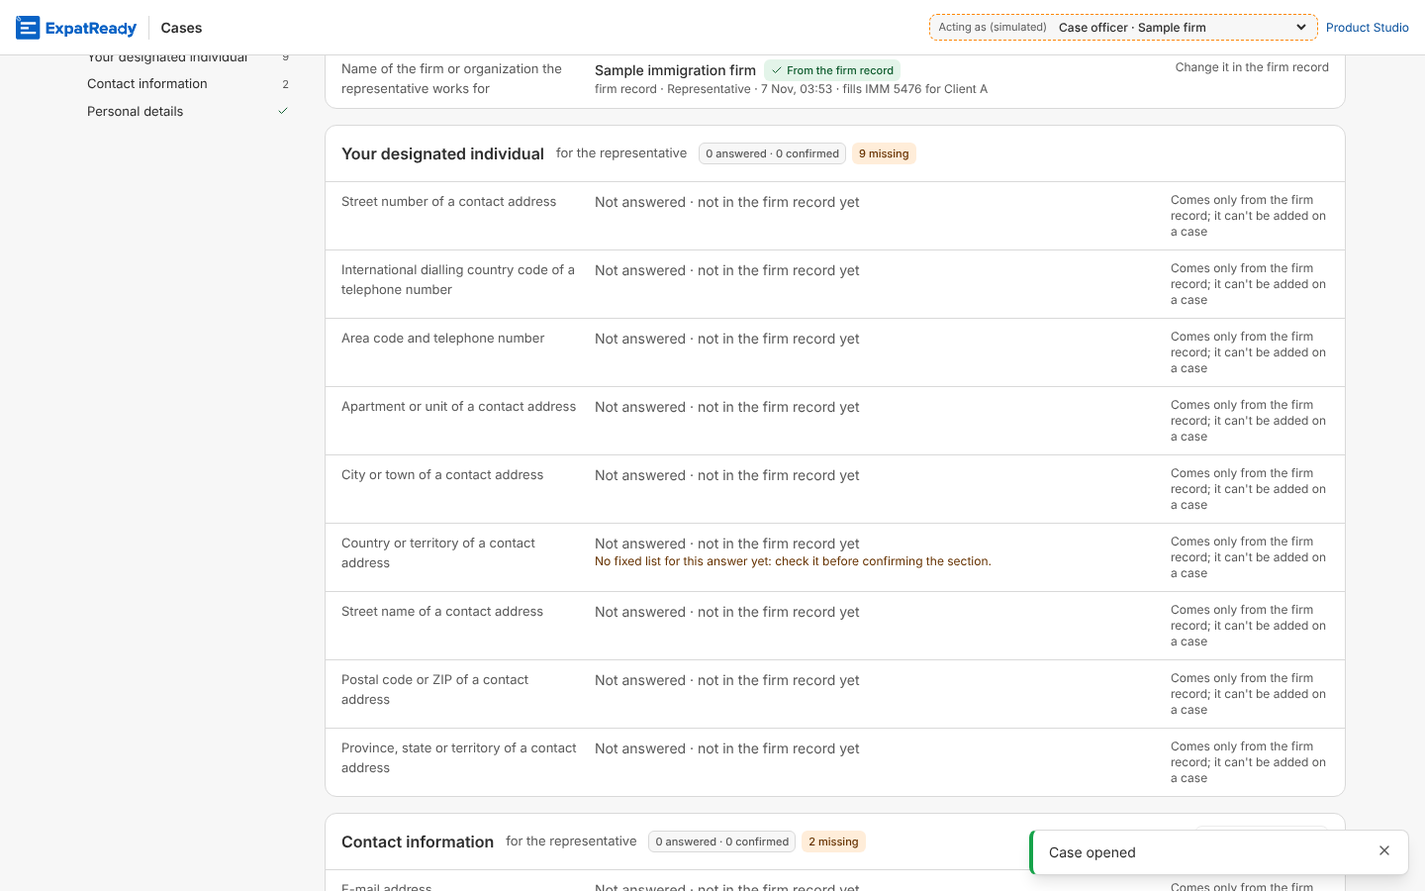
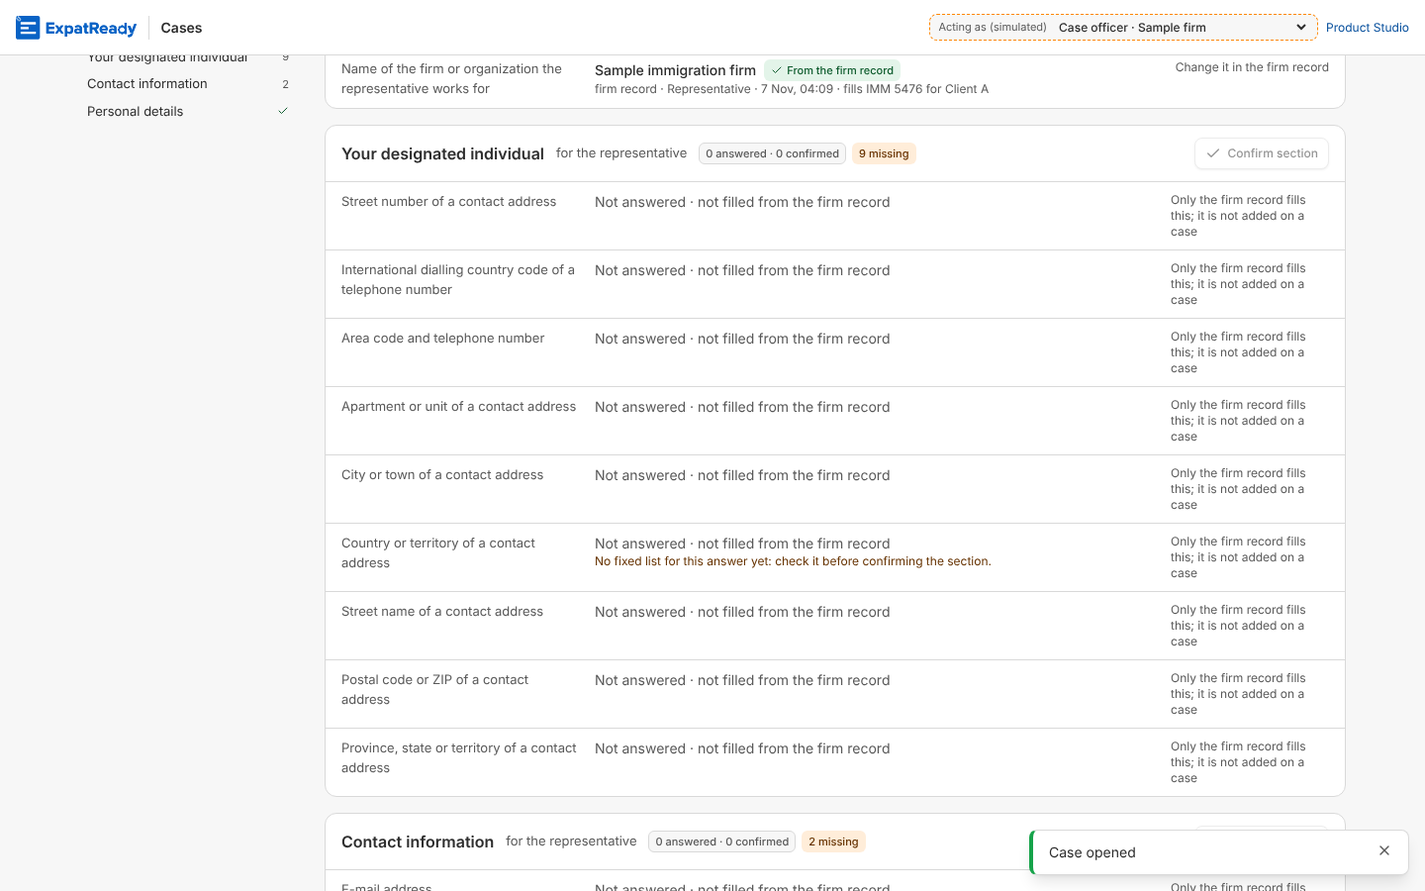
runtime: QA-293 — review round 1 (Request changes) answered: true words for every line, the row routes refuse too
* M1: "not in the firm record yet" was false for 10 of the 17 lines (the firm record holds the office address, under
  keys this release does not read, held back by the ruling on #1072) and promised a value Section B never gets for a
  paid RCIC. The tab now says "Not answered · not filled from the firm record" and "Only the firm record fills this; it
  is not added on a case"; the route's words drop the promise ("... so they are not saved on a case.").
* m3: adding a row or "none apply" for the representative (groupFor) is refused in the same words (422), not 404.
* m4: the no-write check counts every answer, row and group answer in the workspace; new cases: a detail the firm record
  fills (membership ID), a client's save, the row routes.
* Nit: the constant no longer splits offeredRoles from its comment.
* review.md: the Opus reviewer's round 1, with the product question (firm record only, or typed per case) and its
  recommendation (firm record only).
check_qa293_rep_answers 10/10 (8/10 on 1230da89; 5/7 of the first version's checks on main); check_qa293_rep_tab_browser
8/8 (7/8 on 1230da89; 5/8 on main, 17 Add buttons); typecheck no new errors.

Claude-Session: https://claude.ai/code/session_015r4b498e1jCsPDDDvdXgcE

diff --git a/ai-workers/problem-1-pathway-setup-and-form-filling/prototype/studio/tests/runtime/check_qa293_rep_answers.ts b/ai-workers/problem-1-pathway-setup-and-form-filling/prototype/studio/tests/runtime/check_qa293_rep_answers.ts
@@ -6,7 +6,7 @@
 // saves. Each rule with a passing and a failing case, on the configured checkpoint. Sample data, US$0, no model call.
 //   zsh studio/tools/isolated.sh rt293 4441 start, then Demo › Reset and Demo › Load the configured checkpoint as the author
 //   tsx studio/tests/runtime/check_qa293_rep_answers.ts 4441 xr_studio_rt293
-import { call, firms, needVisitorVisa, ok, openCase, sql, yearsAgo, main } from "../../acceptance/lib/m3.ts";
+import { call, CLIENT, firms, needVisitorVisa, ok, openCase, sql, yearsAgo, main } from "../../acceptance/lib/m3.ts";
 
 await main("QA-293", "The representative's tab — details from the firm record only", async () => {
   const f = await firms(), officer = f.officer!;
@@ -17,14 +17,25 @@ await main("QA-293", "The representative's tab — details from the firm record 
   ok("QA-293 setup: the representative's tab holds details the firm record does not give (the ones that offered Add)", missing.includes("person.address_city") && missing.includes("representative.licensing_province"), missing);
   ok("QA-293 pass: the firm record still gives the representative's membership ID", repQs.some((q: { fact: string; answer: { channel: string } | null }) => q.fact === "representative.membership_id" && q.answer?.channel === "firm_record"));
 
-  const rows = () => sql(`select count(*) from client_canonical_answer a join case_participant p on p.subject_id = a.subject_id where p.case_id = '${c.id}'`);
+  // Review m4: every answer row of the workspace (not only the case's people), so a row written anywhere would show.
+  const ws = sql(`select workspace_id from runtime_case where id = '${c.id}'`);
+  const rows = () => sql(`select (select count(*) from client_canonical_answer where workspace_id = '${ws}') + (select count(*) from client_fact_record where workspace_id = '${ws}') + (select count(*) from client_group_answer where workspace_id = '${ws}')`);
   const before = rows();
   for (const fact of ["person.address_city", "representative.licensing_province"]) {
     const r = await call("PUT", `/runtime/cases/${c.id}/answers/representative/${fact}`, { value: fact === "person.address_city" ? "Hamilton" : "ON", expectedId: null }, officer);
     const words = String(r.body?.detail ?? "");
     ok(`QA-293 fail: saving the representative's ${fact} is refused in words (422, the firm record), never 404 "not on this case"`, r.status === 422 && /firm record/.test(words) && !/not on this case/i.test(words), [r.status, words]);
   }
-  ok("QA-293 fail: the refused saves write no answer on the case", rows() === before, [before, rows()]);
+  // Review M1: the words are true for a detail the firm record does fill too (the membership ID), and promise nothing.
+  const filled = await call("PUT", `/runtime/cases/${c.id}/answers/representative/representative.membership_id`, { value: "R999999", expectedId: null }, officer);
+  ok("QA-293 fail (review M1): saving a detail the firm record fills (membership ID) is refused with the same true words, never \"not in the firm record\"", filled.status === 422 && /only from the firm record/.test(String(filled.body?.detail ?? "")) && !/not in the firm record|yet/i.test(String(filled.body?.detail ?? "")), [filled.status, filled.body?.detail]);
+  const byClient = await call("PUT", `/runtime/cases/${c.id}/answers/representative/person.address_city`, { value: "Hamilton", expectedId: null }, CLIENT);
+  ok("QA-293 fail (review m4): a client's save about the representative is refused too (403 or 422), never 404", (byClient.status === 422 || byClient.status === 403) && byClient.status !== 404, [byClient.status, byClient.body?.detail]);
+  // Review m3: the repeating-group routes answer in the same words, never "not on this case".
+  const addRow = await call("POST", `/runtime/cases/${c.id}/groups/representative/rows`, { group: "employment" }, officer);
+  const none = await call("PUT", `/runtime/cases/${c.id}/groups/representative/employment/none-apply`, { noneApply: true, expectedId: null }, officer);
+  ok("QA-293 fail (review m3): adding a row or \"none apply\" for the representative is refused in the same words (422)", addRow.status === 422 && none.status === 422 && /only from the firm record/.test(String(addRow.body?.detail ?? "")), [addRow.status, addRow.body?.detail, none.status]);
+  ok("QA-293 fail: the refused saves write no answer, row or group answer anywhere in the workspace", rows() === before, [before, rows()]);
 
   // A person's own answer still saves (the refusal is for the representative only).
   const own = await call("PUT", `/runtime/cases/${c.id}/answers/${c.subjects["Sample Client A"]}/person.address_city`, { value: "Hamilton", expectedId: null }, officer);

diff --git a/ai-workers/problem-1-pathway-setup-and-form-filling/prototype/studio/web/src/runtime/questionnaire.tsx b/ai-workers/problem-1-pathway-setup-and-form-filling/prototype/studio/web/src/runtime/questionnaire.tsx
@@ -620,7 +620,7 @@ function GroupIntro({ questions }: { questions: Question[] }) {
 const FIRM_RECORD = "firm_record";
 const fromFirm = (a: Answer | null | undefined) => a?.channel === FIRM_RECORD;
 /** QA-293: the representative's tab (the view's "representative" subject): their details come only from the firm record,
- *  so a missing one says so and offers no Add (the route refuses it, 422). */
+ *  so one it does not fill (on this release's keys, or not at all) says so and offers no Add (the route refuses it, 422). */
 const aboutRepresentative = (q: Question) => q.subjectId === "representative";
 function ConfirmPill({ a }: { a: Answer }) {
   if (fromFirm(a)) return <Pill tone="ok" title="Filled from the representative of record's firm record (Sample). It changes in the firm record, not on the case."><Check className="size-3" aria-hidden />From the firm record</Pill>;
@@ -735,10 +735,10 @@ function AgentSection({ view, s, edit }: { view: View; s: Section; edit: (q: Que
               {a.problems.map((p, i) => <p key={i} className="flex items-start gap-1 text-xs font-medium text-text-danger"><AlertCircle className="mt-0.5 size-3 shrink-0" aria-hidden />{p}</p>)}
               {row ? null : checks.filter((c) => c.fact === q.fact).map((c) => <p key={c.id} className="flex items-start gap-1 text-xs font-medium text-text-warn"><AlertCircle className="mt-0.5 size-3 shrink-0" aria-hidden />{c.message}</p>)}
             </>
-          ) : <span className="text-text-muted">{q.required ? "Not answered" : "Not answered (optional)"}{aboutRepresentative(q) ? " · not in the firm record yet" : q.collected_from !== "client_questionnaire" ? " · the officer enters this from a document or record" : ""}</span>}
+          ) : <span className="text-text-muted">{q.required ? "Not answered" : "Not answered (optional)"}{aboutRepresentative(q) ? " · not filled from the firm record" : q.collected_from !== "client_questionnaire" ? " · the officer enters this from a document or record" : ""}</span>}
           {q.note ? <p className="text-xs text-text-warn">{q.note}</p> : null}
         </div>
-        {kindOf(q) === "declaration" ? <p className="max-w-40 text-xs text-text-muted">Only the client makes this declaration</p> : fromFirm(a) ? <p className="max-w-40 text-xs text-text-muted">{q.fact === "case.uses_representative" ? "Set by the case team (the representative of record)" : "Change it in the firm record"}</p> : aboutRepresentative(q) ? <p className="max-w-40 text-xs text-text-muted">Comes only from the firm record; it can't be added on a case</p> : <div><Button size="sm" variant="ghost" onClick={() => edit(q, row)} aria-label={`${a ? "Edit" : "Add"} ${q.label}${row ? ` (entry ${(q.rows.find((r) => r.row === row)?.index ?? 0) + 1})` : ""} for ${inSentence(s.about_label)}`}><Pencil aria-hidden />{a ? "Edit" : "Add"}</Button></div>}
+        {kindOf(q) === "declaration" ? <p className="max-w-40 text-xs text-text-muted">Only the client makes this declaration</p> : fromFirm(a) ? <p className="max-w-40 text-xs text-text-muted">{q.fact === "case.uses_representative" ? "Set by the case team (the representative of record)" : "Change it in the firm record"}</p> : aboutRepresentative(q) ? <p className="max-w-40 text-xs text-text-muted">Only the firm record fills this; it is not added on a case</p> : <div><Button size="sm" variant="ghost" onClick={() => edit(q, row)} aria-label={`${a ? "Edit" : "Add"} ${q.label}${row ? ` (entry ${(q.rows.find((r) => r.row === row)?.index ?? 0) + 1})` : ""} for ${inSentence(s.about_label)}`}><Pencil aria-hidden />{a ? "Edit" : "Add"}</Button></div>}
       </div>
     );
   };

diff --git a/ai-workers/problem-1-pathway-setup-and-form-filling/prototype/studio/api/src/runtime.ts b/ai-workers/problem-1-pathway-setup-and-form-filling/prototype/studio/api/src/runtime.ts
@@ -42,11 +42,13 @@ const roleWords = (p: Pick<PeopleLine, "role" | "label">) => p.label ?? p.role.r
 /** B115 (P-319): who a person may add to a case: every role the pinned release lists with a maximum above 0, never the
  *  principal applicant or the application itself. One list for the case page's Add buttons and addPerson's check. */
 export const addableRoles = (s: Snapshot) => linesOf(s).filter((p) => p.role !== "principal" && p.role !== "case" && (p.max ?? 0) > 0);
+/** QA-293: why no detail of the representative is saved on a case: the firm record of the representative of record is
+ *  their only source (C7.7, C6.11), and IMM 5475's designated individual, read by some of these keys, is not the
+ *  representative (tech lead's ruling on #1072). True for a detail the firm record fills and for one it does not. */
+export const REPRESENTATIVE_NOT_TYPED = "The representative's details come only from the firm record of the representative of record, so they are not saved on a case.";
 /** B115 review M1 (C7.7): the case page's Add buttons. The representative is the case team's representative of record,
  *  read from the firm record (engine/runtime/team.ts: "A case has no representative participant"), so the screen never
  *  offers to add one as a person; every other role comes from the release (P-319). */
-/** QA-293: why a representative's detail cannot be added on a case (the firm record is its only source). */
-export const REPRESENTATIVE_NOT_TYPED = "The representative's details come only from the firm record of the representative of record, so they are not added on a case. This one is not in the firm record yet.";
 export const offeredRoles = (s: Snapshot) => addableRoles(s).filter((p) => p.role !== REPRESENTATIVE);
 
 export type Reached = Awaited<ReturnType<Runtime["reach"]>>;
@@ -374,6 +376,7 @@ export class Runtime {
   /** Who may write a repeating group of a person on this case: the group exists, belongs to that kind of subject, and
    *  the client writes it only when it holds a client field. */
   private groupFor(actor: Actor, c: Reached, subjectId: string, groupKey: string) {
+    if (subjectId === REPRESENTATIVE) fail(REPRESENTATIVE_NOT_TYPED, HttpStatus.UNPROCESSABLE_ENTITY); // QA-293 review m3
     const who = c.participants.find((p) => p.subjectId === subjectId);
     if (!who) fail("That person is not on this case.", HttpStatus.NOT_FOUND);
     const s = this.snapshotOf(c);

diff --git a/ai-workers/problem-1-pathway-setup-and-form-filling/product/screens/QA-293/review.md b/ai-workers/problem-1-pathway-setup-and-form-filling/product/screens/QA-293/review.md
@@ -1,0 +1,125 @@
+# QA-293 review — the representative's tab: refuse a save, offer no Add
+
+* **Commit reviewed:** `1230da890` on `claude/qa293-representative-answers` (base `origin/main` `fc3b57cff`). Diff: `api/src/runtime.ts` (+5), `web/src/runtime/questionnaire.tsx` (+5/−2), two new checks, one screenshot.
+* **Reviewer:** independent reviewer agent. I did not build this fix.
+* **How I checked:** I read the diff and every route that takes a subject id. I ran an isolated copy from a `git archive` of `1230da890` (port 4477, database `xr_studio_rv293`, now stopped and dropped), with Demo › Reset and then Demo › Load the configured checkpoint. On it I ran both new checks and a probe of my own: the view of a Visitor visa case, a `PUT` as the officer and as the client, and the Prepare view's readiness. I also ran typecheck. Live AI was off, so this cost US$0.
+
+## Results I reproduced
+
+| Check | Result on `1230da890` |
+|---|---|
+| `tests/runtime/check_qa293_rep_answers.ts 4477 xr_studio_rv293` | **7/7** |
+| `tests/runtime/check_qa293_rep_tab_browser.cjs 4477` | **8/8**: 0 Add buttons on the representative's tab, 87 on the principal's, axe clean, no page errors |
+| `node product/tools/typecheck.mjs` | api: 15 errors, all known; web: 0. **PASS: no new type errors (15 known, 0 fixed)** |
+| Fail on main | Checked by reading the code, not by running main. Main's `putAnswer` returns 404 "That person is not on this case.", so the two 422 lines fail (5/7). Main's screen draws Add on all 17 lines, so the city, words and "no Add anywhere" lines fail (5/8). Both checks fail for the reason the bug gives. |
+
+What the representative's tab shows on the configured checkpoint (probe, Visitor visa, the default representative user-R, an RCIC):
+
+* **Section B: appointment of representative.** From the firm record: membership ID, licensing body, firm name. Not filled (6): licensing province, `uncompensated_other_description`, `uncompensated_category`, fax country code, supervising lawyer name, supervising lawyer membership ID. They fill IMM 5476 only.
+* **Your designated individual.** Not filled (9): `person.address_*` (7) and `person.phone_country_code` / `person.phone_number`. Each fills **IMM 5475 and IMM 5476**.
+* **Contact information.** Not filled (2): `person.email` (fills IMM 5475 and IMM 5476) and `person.fax_number` (IMM 5476).
+* **Personal details.** Family name and given names come from the firm record.
+
+That is 17 lines with no value, which matches the builder's "17 Add buttons". None of them is a repeating group, a declaration or a decider.
+
+## Findings
+
+### Blocker
+None.
+
+### Major
+
+**M1. The new words are false for the very line qa reported, and for 10 of the 17 lines.**
+* Where: the screen at `web/src/runtime/questionnaire.tsx:738` ("Not answered · not in the firm record yet") and the API at `api/src/runtime.ts:49` (`REPRESENTATIVE_NOT_TYPED`: "… This one is not in the firm record yet.").
+* The firm record does hold the representative's office address, phone and e-mail. In `samples/firms.json`, sample-firm's `office` has `city: "Toronto"`, a street, a postal code and a phone, and user-R has an `email`.
+* `engine/runtime/team.ts:83-86` reads those values, but under `person.mailing_address_*`, `person.telephone_number` and `person.email_address`.
+* `team.ts:88-91` keeps them away from the keys this checkpoint reads (`person.address_*`, `person.phone_*`, `person.email`) on purpose. That is the tech lead's ruling on #1072: IMM 5475's map puts its designated individual on those keys.
+* So for "City or town of a contact address" the screen says "not in the firm record yet" while the firm record holds Toronto. The value is held back until a reviewed map change, not missing.
+* The API words are also false for a fact the firm record does give. In my probe, `PUT …/answers/representative/representative.membership_id` returned 422 with "This one is not in the firm record yet." The firm record gives R000000.
+* For the Section B lines, "yet" promises a value that will never come for this representative. The licensing province "applies to lawyers and notaries only" (`team.ts:63`). The supervising-lawyer details are for a student-at-law, and `uncompensated_*` for an unpaid representative. The Sample representative is a paid RCIC.
+* This is D18 (where information came from and what to do with it, `QUALITY.md:40`). The reported bug was itself misleading words.
+* **Fix (small):** use words that are true for every line. For example:
+  * middle column: "Not filled from the firm record";
+  * right column: keep "Comes only from the firm record; it can't be added on a case";
+  * API: drop the last sentence, or say "The firm record does not fill it on this case."
+  * Optionally, for the contact block, say why: "The firm's office address waits for a reviewed form map (IMM 5475's designated individual is not the representative)."
+
+### Minor
+
+**m1. "What blocks filing" and the forms panel still tell the client or the case team to supply these facts.** This is older than this PR, but it is the same journey.
+* `api/src/case-prepare.ts:368` decides who owes a fact with `isClientField(s, fact)` and ignores whose fact it is.
+* On the probe case, the Prepare view's readiness said:
+  * "The case team: IMM 5476 for Sample Client A: 6 facts missing or not confirmed (Province or territory of the law society the representative belongs to, …)";
+  * "The client: IMM 5476 …: 19 facts missing or not confirmed (…)". These 19 include the representative's 11 `person.*` facts, mixed with the principal's under the same labels.
+* `web/src/runtime/forms.tsx:151` lists them as "Facts to answer or confirm".
+* Nobody can act on any of them. They are CRITICAL warnings, so they can only be passed with a reason.
+* Follow-up row: the owner should be `representative` ("The representative of record") with words that say "comes from the firm record". That needs the readiness `missing` entries to carry the fact's own subject: `api/src/readiness-inputs.ts:80` passes the form holder's subject.
+
+**m2. The representative's tab says "17 missing" for good, with no action.** The tab trigger, the section pills and the section nav (`questionnaire.tsx:666`, `:677`) all count them.
+* Part of this is release configuration: the six Section B facts are `required: true` with no condition, but most do not apply to an RCIC.
+* Follow-up for the forms lane and the tech lead: conditions on `representative.licensing_province`, `uncompensated_*` and `supervising_lawyer_*`.
+
+**m3. Two API routes still answer subject `representative` with the 404 "That person is not on this case."**
+* The routes are `groupFor` (`api/src/runtime.ts:377-378`), which serves `addRow` and `noneApply`.
+* Nothing is written. The screen cannot reach them today, because no repeating group is about the representative on the checkpoint.
+* If a release ever placed a per-row fact about the representative, the section's "Add an entry" would reach this 404 again.
+* Optional: refuse in `groupFor` with the same 422 as `putAnswer`.
+
+The other routes are covered or harmless:
+* `confirmSection` refuses first on `ConfirmSection`'s uuid check (`contracts/runtime.ts:94`): 400 "Choose whose section to confirm." On screen the button is disabled because firm-record answers are never sent as seen (`questionnaire.tsx:709`, `:757`).
+* Undo refuses on `UndoBody`'s uuid regex (`api/src/case-changes.ts:21`): 400, nothing written.
+* `fill-case.ts:218` returns 404 "No such person." through `idOf` (`:44`). That is correct: the representative holds no form.
+* The client portal: the client's questionnaire view never lists the representative's facts (`engine/runtime/case.ts:304`). A client's `PUT` now gets the same 422 (probe).
+* The PQR view drops them, because `roleOf("representative")` is `""` (`case.ts:389`).
+
+**m4. The tests: sound, with two gaps.**
+* The "refused saves write no answer" line (`check_qa293_rep_answers.ts:21-28`) counts only answers joined to `case_participant`. It could never see a row written for a non-participant subject, and it passes on main too. It works as a guard, but it does not tell the fix from main.
+* Nothing covers the client actor (now 422, verified in my probe) or a fact the firm record gives (`membership_id`). That second case would have shown M1.
+* The browser check is good: it finds the line by its `a-representative-…` id, checks that no Add or Edit button is there, counts 0 Add buttons on the tab and more than 0 on the principal's tab, and runs axe and a sideways-scroll check.
+
+### Nit
+
+* **n1.** `api/src/runtime.ts:45-50`: the new constant sits between B115's doc comment and `offeredRoles`. `offeredRoles` loses its doc comment, and two doc comments now sit on `REPRESENTATIVE_NOT_TYPED`. Move the new lines above line 45.
+* **n2.** On the representative's tab, three older texts no longer fit:
+  * `questionnaire.tsx:681` says "Click Edit on any answer to change it.", but nothing there can be edited.
+  * The disabled Confirm section's title is "Nothing answered yet in this section" (`:757`), but Personal details has two answers from the firm record.
+  * The note "No fixed list for this answer yet: check it before confirming the section." (`engine/runtime/case.ts:320`) shows under the representative's country (screenshot), where no answer can ever be given.
+* **n3.** The right-hand text appears 17 times, three lines each (screenshot). One notice per section, or per tab, would read better. Optional.
+* **n4.** `aboutRepresentative` tests the literal `"representative"` (`questionnaire.tsx:624`) instead of importing `REPRESENTATIVE`. `team.ts` uses `Buffer`, so it is not safe to import in the browser, and the literal matches the existing `FIRM_RECORD` copy at `:620`. Acceptable.
+
+### Is `q.subjectId === "representative"` the right test? Yes.
+* A question is about the representative only when the renderer's `about` is `"representative"`. `caseView`'s `subjectOf` keeps that literal (`engine/runtime/case.ts:273`), and `render.ts:93` and `team.ts:78` use the same key.
+* Relationship keys (`representative/…`) never reach the view, because `case.ts:291` drops any `about` containing "/".
+* A representative is never a participant: `addPerson` refuses one (`runtime.ts:215`).
+* On the checkpoint, no question under that subject is one a person must answer on a case.
+* The edit dialog opens only from a line's button (`questionnaire.tsx:640`, `:687`, `:741`), so it cannot be reached on this tab now.
+
+## Product question (for the tech lead)
+
+The representative's details that the firm record does not fill on a case are, on the Visitor visa checkpoint:
+* 6 IMM 5476 Section B details;
+* 9 contact-address and phone details under "Your designated individual", which IMM 5475 and IMM 5476 both read;
+* e-mail and fax under Contact information.
+
+Where should they come from?
+
+* **A. The firm record only (this PR).** A save on a case is refused. The details fill once the firm record holds them, or, for the contact block, once a reviewed map change lets IMM 5476 read the firm's office block and gives IMM 5475's designated individual its own person.
+* **B. Typed on each case.** They are stored on the case as facts about the representative, and both forms use them.
+
+**Recommendation: A.** The case for it:
+1. **B is not cheap on the write side.**
+   * `client_canonical_answer.subject_id` is a uuid foreign key to `answer_subject`, with a required party (`prisma/schema.prisma:1504`).
+   * `state()` reads stored answers only for participants' subjects (`api/src/runtime.ts:268-272`).
+   * So B needs a per-case subject that is not a participant (a migration), and the mapping in `putAnswer`, confirm, undo, the changes feed and out-of-date marks.
+   * Only the read side is cheap. `knownOf` keys any non-participant subject by its own id (`engine/runtime/case.ts:224`), so fill and view would pick the answers up. `state()` already lets the firm record win over a stored answer (`runtime.ts:287-288`).
+2. **B breaks the ruling on #1072.** 10 of the 17 also fill IMM 5475. A typed value would print the representative as IMM 5475's designated individual, the person IRCC says is "someone who will not act as your representative" (`team.ts:88-91`).
+3. **B would carry one representative's details to the next.** A per-case value is stored as "the representative", not tied to one user. After a change of representative of record (BR-20, `team.ts:146-155`), the earlier representative's typed details would fill the new representative's IMM 5476 without anyone seeing.
+4. **For the contact block, the gap is the map, not the data.** The firm record already holds the office address, phone and e-mail (`samples/firms.json`).
+   * For the 6 Section B details, the fix is conditions in the release, so a paid RCIC is not asked about a law-society province, a supervising lawyer or unpaid representation.
+   * The firm record is the place for the rest (fax).
+
+## Note for the builder
+This worktree has uncommitted changes to 14 `product/screens/C11.6/screenshots/*.png`, written at 04:02 UTC by a C11.6 walk that someone else ran in this worktree. This review did not make them. Do not commit them with this item by accident.
+
+## Verdict
+**Request changes**: M1 only. Make the words true for every line, both on the screen and in the API message. Then this can be approved. Refusing is the right fix under the stated rulings. m1 and m2 are follow-up rows, and m3, m4 and the nits are optional.
